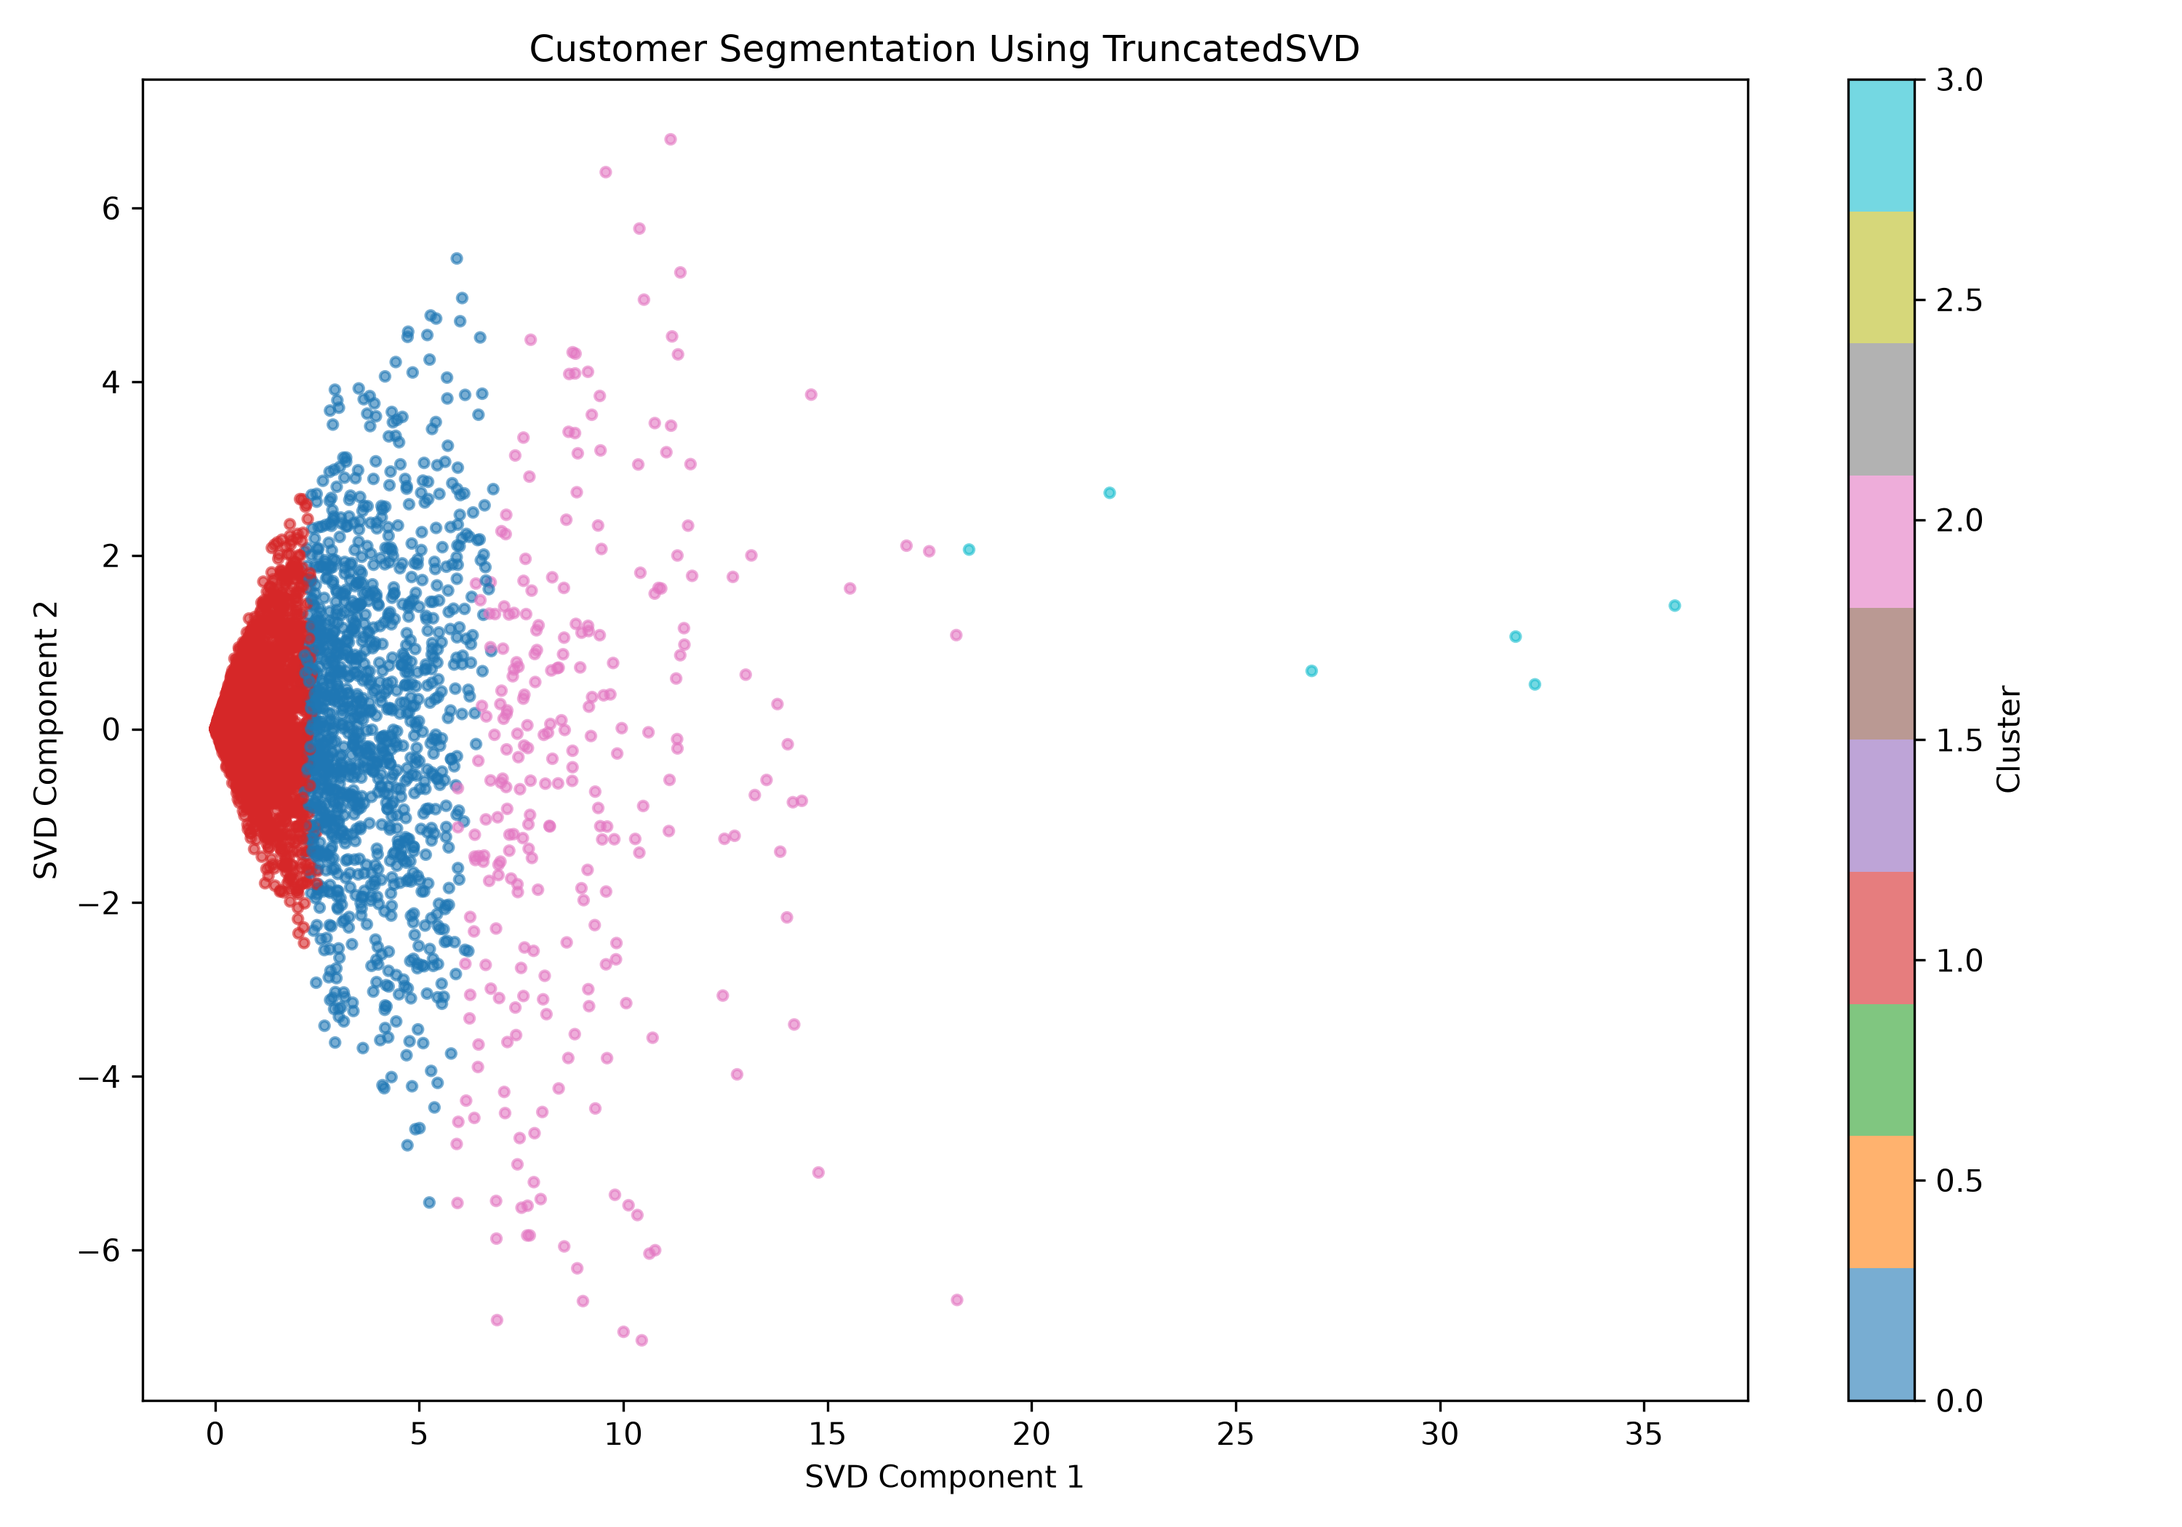
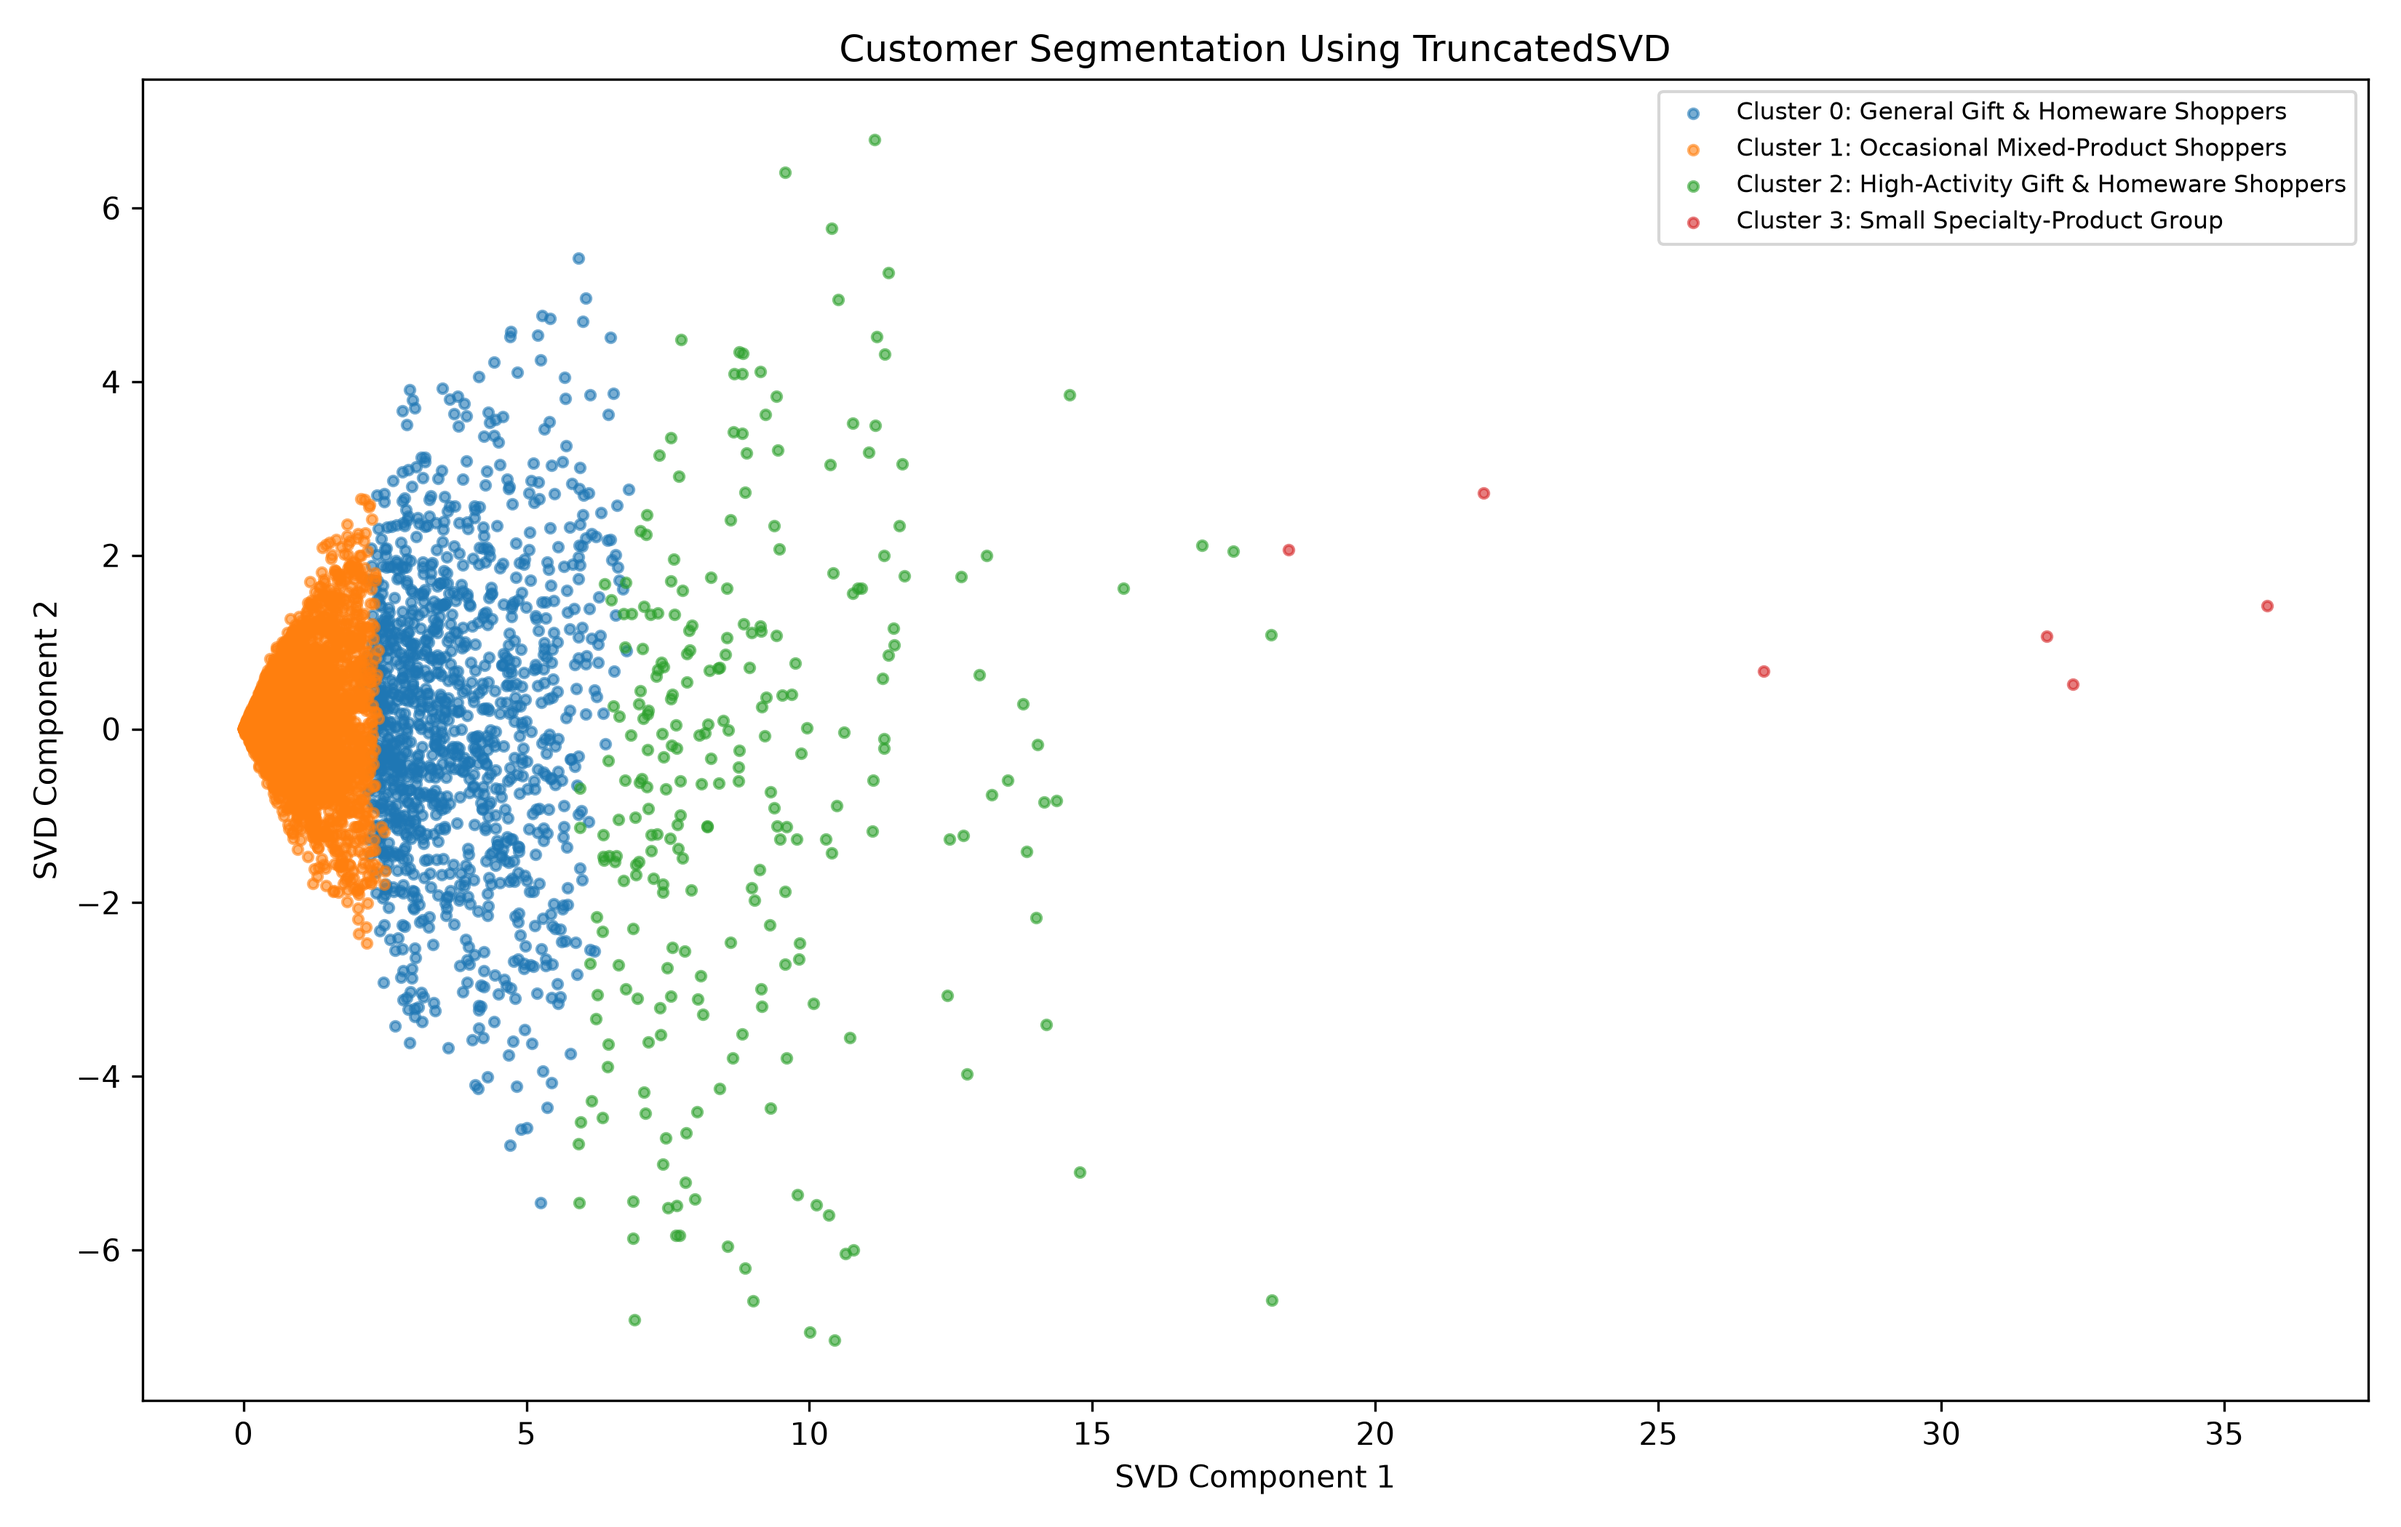
Add named customer segments to ML6 visualization

diff --git a/customer_map.py b/customer_map.py
@@ -12,19 +12,32 @@ customer_2d=embeddings[:,:2]
 KMeans=KMeans(n_clusters=4,random_state=42,n_init=10)
 clusters=KMeans.fit_predict(embeddings)
 
-plt.figure(figsize=(10, 7))
-scatter = plt.scatter(customer_2d[:, 0],customer_2d[:, 1],c=clusters,cmap="tab10",s=10,alpha=0.6)
+#visualization
 
+segment_names = {
+    0: "General Gift & Homeware Shoppers",
+    1: "Occasional Mixed-Product Shoppers",
+    2: "High-Activity Gift & Homeware Shoppers",
+    3: "Small Specialty-Product Group"
+}
+plt.figure(figsize=(11, 7))
+for cluster_id in range(4):
+    mask = clusters == cluster_id
+    plt.scatter(
+        customer_2d[mask, 0],
+        customer_2d[mask, 1],
+        s=10,
+        alpha=0.6,
+        label=f"Cluster {cluster_id}: {segment_names[cluster_id]}"
+    )
 plt.xlabel("SVD Component 1")
 plt.ylabel("SVD Component 2")
 plt.title("Customer Segmentation Using TruncatedSVD")
-
-plt.colorbar(scatter, label="Cluster")
+plt.legend(loc="upper right", fontsize=8)
 plt.tight_layout()
-
-plt.savefig(output_dir / "customer_clusters.png",dpi=300)
-
+plt.savefig(output_dir / "customer_clusters.png", dpi=300)
 plt.show()
+
 
 print("\n--- ML6: Customer Segmentation ---")
 print("Total customers:", len(clusters))
